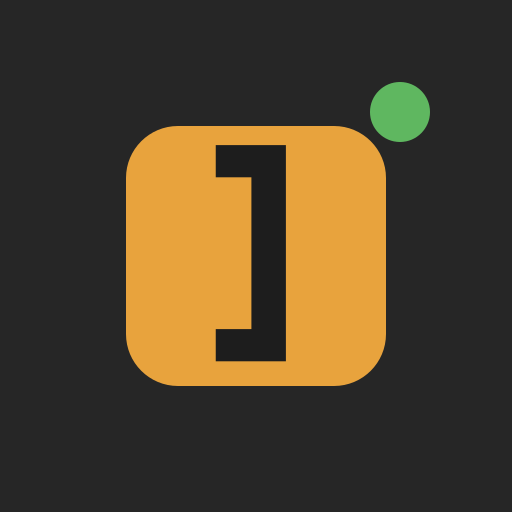
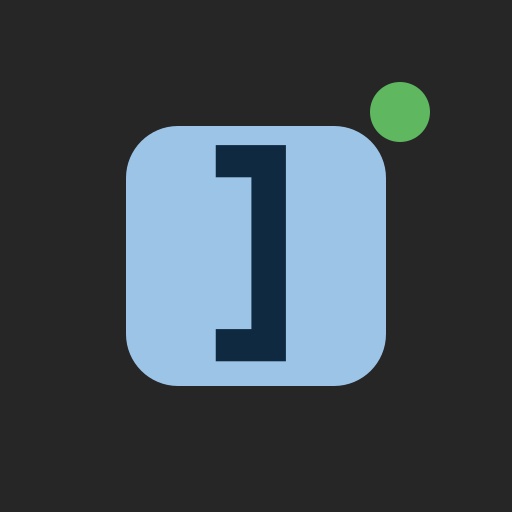
Console-cable blue instead of amber (#11)
bauddy's one accent is now the light blue of a Cisco console cable
(#9CC4E6, sampled from the cable): the ctrl+] key on the status line,
the
command bar and other bars asking for a key, notes, search highlights
and
the help and baud overlays. Text on it is dark navy (#0F2A40), and light
themes get a deeper blue (#1F5C8F) for overlay text.

The logo, avatar, social preview and README screenshots are regenerated
to match, and the code's amber names become accent names, so they say
what they are.

After merging: upload docs/avatar.png and docs/social-preview.png in the
repo settings, since GitHub keeps its own copies.

🤖 Generated with [Claude Code](https://claude.com/claude-code)

Changed region(s): [[0.2188, 0.2188, 0.7812, 0.7812]]

diff --git a/internal/tui/view.go b/internal/tui/view.go
@@ -16,37 +16,38 @@ import (
 	"github.com/ssimpson89/bauddy/internal/serialx"
 )
 
-// Palette. Amber is bauddy's one accent; red only means "something's wrong".
+// Palette. Console-cable blue (the light blue of a Cisco console cable) is
+// bauddy's one accent; red only means "something's wrong".
 var (
-	cAmber   = lipgloss.Color("#E8A33D")
-	cOnAmber = lipgloss.Color("#2A1A00")
-	cBar     = lipgloss.Color("#262626")
-	cText    = lipgloss.Color("#D0D0D0")
-	cBright  = lipgloss.Color("#ECECEC")
-	cDim     = lipgloss.Color("#9A9A9A")
-	cGreen   = lipgloss.Color("#5FB760")
-	cRedBar  = lipgloss.Color("#5A1F1B")
+	cAccent   = lipgloss.Color("#9CC4E6")
+	cOnAccent = lipgloss.Color("#0F2A40")
+	cBar      = lipgloss.Color("#262626")
+	cText     = lipgloss.Color("#D0D0D0")
+	cBright   = lipgloss.Color("#ECECEC")
+	cDim      = lipgloss.Color("#9A9A9A")
+	cGreen    = lipgloss.Color("#5FB760")
+	cRedBar   = lipgloss.Color("#5A1F1B")
+	cOnRed    = lipgloss.Color("#FFD9D4")
 	// Violet is an AI tool: the bar while it has the keyboard, and its name.
 	cViolet     = lipgloss.Color("#5B4FA8")
 	cOnViolet   = lipgloss.Color("#EEEBFF")
 	cVioletText = lipgloss.Color("#B3A8F0")
-	cOnRed      = lipgloss.Color("#FFD9D4")
 
 	// Overlays draw on the terminal's own background, so they need darker
-	// text on light themes: cAmber and cDim have poor contrast on white. The
+	// text on light themes: cAccent and cDim have poor contrast on white. The
 	// status bar sets its own background and works on any theme.
-	cAmberOnLight = lipgloss.Color("#8A5200")
+	cAccentOnLight = lipgloss.Color("#1F5C8F")
 
-	cDivider    = lipgloss.Color("#8A5200") // the command bar's divider, on amber
+	cDivider    = lipgloss.Color("#3E6E96") // the command bar's divider, on the blue bar
 	cDimOnLight = lipgloss.Color("#5C5C5C")
 )
 
 // overlayStyles returns the box, key and dim styles for the help and baud
 // overlays, suited to the terminal's background.
 func (m *Model) overlayStyles() (box, key, dim lipgloss.Style) {
-	accent, faint := color.Color(cAmber), color.Color(cDim)
+	accent, faint := color.Color(cAccent), color.Color(cDim)
 	if m.light {
-		accent, faint = cAmberOnLight, cDimOnLight
+		accent, faint = cAccentOnLight, cDimOnLight
 	}
 	box = lipgloss.NewStyle().Border(lipgloss.RoundedBorder()).BorderForeground(accent).Padding(1, 2)
 	return box, lipgloss.NewStyle().Foreground(accent).Bold(true), lipgloss.NewStyle().Foreground(faint)
@@ -135,25 +136,25 @@ func overlay(w, h int, box string) string {
 	return lipgloss.Place(w, h, lipgloss.Center, lipgloss.Center, strings.Join(lines, "\n"))
 }
 
-// hint is a key and what it does, for the amber bars: "enter send".
+// hint is a key and what it does, for the blue bars: "enter send".
 func hint(key, label string) []seg {
-	return []seg{{key, cOnAmber, true}, {" " + label + "  ", cOnAmber, false}}
+	return []seg{{key, cOnAccent, true}, {" " + label + "  ", cOnAccent, false}}
 }
 
-// amber renders a bar asking for a key: the lead text and hints on the left,
+// askBar renders a bar asking for a key: the lead text and hints on the left,
 // esc on the right. Hints are dropped from the end if the window is narrow.
-func amber(w int, lead string, hints [][]seg, esc string) string {
-	return fitLine(cAmber, w, amberLayouts(lead, hints, esc))
+func askBar(w int, lead string, hints [][]seg, esc string) string {
+	return fitLine(cAccent, w, askLayouts(lead, hints, esc))
 }
 
-// amberLayouts is an amber bar with all its hints, then with one fewer at a
+// askLayouts is a blue bar with all its hints, then with one fewer at a
 // time, for fitLine to choose from.
-func amberLayouts(lead string, hints [][]seg, esc string) []layout {
-	left := []seg{{" " + lead, cOnAmber, true}}
+func askLayouts(lead string, hints [][]seg, esc string) []layout {
+	left := []seg{{" " + lead, cOnAccent, true}}
 	if lead != "" {
 		left[0].text += "  "
 	}
-	right := []seg{{"esc", cOnAmber, true}, {" " + esc + " ", cOnAmber, false}}
+	right := []seg{{"esc", cOnAccent, true}, {" " + esc + " ", cOnAccent, false}}
 	var layouts []layout
 	for n := len(hints); n >= 0; n-- {
 		layouts = append(layouts, layout{slices.Concat(left, slices.Concat(hints[:n]...)), right})
@@ -169,13 +170,13 @@ func (m *Model) statusLine() string {
 	case modeCommand:
 		return m.commandLine(w)
 	case modeBaud:
-		return amber(w, "", [][]seg{hint("↑↓", "choose"), hint("enter", "set"), hint("d", "detect")}, "cancel")
+		return askBar(w, "", [][]seg{hint("↑↓", "choose"), hint("enter", "set"), hint("d", "detect")}, "cancel")
 	case modeHelp:
-		return line(cAmber, w, []seg{{" any key closes", cOnAmber, false}}, nil)
+		return line(cAccent, w, []seg{{" any key closes", cOnAccent, false}}, nil)
 	case modePasteConfirm:
-		return amber(w, m.confirm.text(), [][]seg{hint("enter", "send"), hint("l", "log and send")}, "cancel")
+		return askBar(w, m.confirm.text(), [][]seg{hint("enter", "send"), hint("l", "log and send")}, "cancel")
 	case modeProbeOffer:
-		return amber(w, "nothing heard.", [][]seg{hint("enter", "send Enter at each baud rate")}, "skip")
+		return askBar(w, "nothing heard.", [][]seg{hint("enter", "send Enter at each baud rate")}, "skip")
 	case modeHistory:
 		return m.historyBar(w)
 	}
@@ -226,7 +227,7 @@ func (m *Model) peers() []seg {
 // is wrong.
 func (m *Model) mainLine(w int) string {
 	bad := m.state != serialx.Connected || m.note.kind == noteError
-	bg, fg, accent := cBar, cText, cAmber
+	bg, fg, accent := cBar, cText, cAccent
 	if bad {
 		bg, fg, accent = cRedBar, cOnRed, cOnRed
 	}
@@ -302,7 +303,7 @@ type barKey struct {
 	help       bool // the ? key, which reads "more" once anything is hidden
 }
 
-// commandLine is the amber bar in command mode.
+// commandLine is the blue bar in command mode.
 func (m *Model) commandLine(w int) string {
 	var keys []barKey
 	var quit, back barKey
@@ -369,7 +370,7 @@ func commandBar(w int, keys []barKey, quit, back barKey, note string) string {
 		over := width(left) + 1 + width(right) - w // +1: at least one cell between them
 		switch {
 		case over <= 0:
-			return line(cAmber, w, left, right)
+			return line(cAccent, w, left, right)
 		case len(drop) > 0:
 			shown[drop[0]], drop = false, drop[1:]
 		case note != "" && lipgloss.Width(note) > noteMin:
@@ -383,7 +384,7 @@ func commandBar(w int, keys []barKey, quit, back barKey, note string) string {
 		case helpLabel:
 			helpLabel = false
 		default:
-			return line(cAmber, w, left, right) // cut at the edge
+			return line(cAccent, w, left, right) // cut at the edge
 		}
 	}
 }
@@ -392,7 +393,7 @@ func commandBar(w int, keys []barKey, quit, back barKey, note string) string {
 // sends to the device. Without helpLabel, the ? key is shown bare.
 func barLeft(keys []barKey, shown []bool, helpLabel bool) []seg {
 	hidden := slices.Contains(shown, false)
-	out := []seg{{" ", cOnAmber, false}}
+	out := []seg{{" ", cOnAccent, false}}
 	divided := false
 	for i, k := range keys {
 		if !shown[i] {
@@ -405,7 +406,7 @@ func barLeft(keys []barKey, shown []bool, helpLabel bool) []seg {
 		label := k.label
 		switch {
 		case k.help && !helpLabel:
-			out = append(out, seg{k.key + "  ", cOnAmber, true})
+			out = append(out, seg{k.key + "  ", cOnAccent, true})
 			continue
 		case k.help && hidden:
 			label = "more"
@@ -419,17 +420,17 @@ func barLeft(keys []barKey, shown []bool, helpLabel bool) []seg {
 func barRight(note string, quit, back barKey, quitFull, backFull bool) []seg {
 	var out []seg
 	if note != "" {
-		out = append(out, seg{note + "   ", cOnAmber, true})
+		out = append(out, seg{note + "   ", cOnAccent, true})
 	}
 	if quitFull {
 		out = append(out, hint(quit.key, quit.label)...)
 	} else {
-		out = append(out, seg{quit.key + "  ", cOnAmber, true})
+		out = append(out, seg{quit.key + "  ", cOnAccent, true})
 	}
 	if backFull {
-		out = append(out, seg{back.key, cOnAmber, true}, seg{" " + back.label + " ", cOnAmber, false})
+		out = append(out, seg{back.key, cOnAccent, true}, seg{" " + back.label + " ", cOnAccent, false})
 	} else {
-		out = append(out, seg{back.key + " ", cOnAmber, true})
+		out = append(out, seg{back.key + " ", cOnAccent, true})
 	}
 	return out
 }

diff --git a/internal/tui/history.go b/internal/tui/history.go
@@ -168,10 +168,18 @@ func (m *Model) selectMatch(i int) {
 	m.scrollTo(h.matches[h.match] - m.pageHeight()/2)
 }
 
-var (
-	matchStyle    = lipgloss.NewStyle().Foreground(cAmber).Bold(true)
-	selectedStyle = lipgloss.NewStyle().Background(cAmber).Foreground(cOnAmber).Bold(true)
-)
+// selectedStyle is the selected match: dark on blue, readable on any theme.
+var selectedStyle = lipgloss.NewStyle().Background(cAccent).Foreground(cOnAccent).Bold(true)
+
+// matchStyle is the other matches, drawn on the terminal's own background:
+// the light blue is too pale on a light theme, so that gets the dark one.
+func (m *Model) matchStyle() lipgloss.Style {
+	fg := cAccent
+	if m.light {
+		fg = cAccentOnLight
+	}
+	return lipgloss.NewStyle().Foreground(fg).Bold(true)
+}
 
 // historyView draws the screenful of history starting at top.
 func (m *Model) historyView(height int) string {
@@ -203,7 +211,7 @@ func (m *Model) historyLine(line string, selected bool) string {
 			prefix, line = "…"+ansi.Cut(before, w-keep+1, w), line[loc[0]:]
 		}
 	}
-	style := matchStyle
+	style := m.matchStyle()
 	if selected {
 		style = selectedStyle
 	}
@@ -229,9 +237,9 @@ func (m *Model) historyBar(w int) string {
 		}
 		var layouts []layout
 		for _, lead := range leads {
-			layouts = append(layouts, amberLayouts(lead, [][]seg{hint("enter", "find")}, "cancel")...)
+			layouts = append(layouts, askLayouts(lead, [][]seg{hint("enter", "find")}, "cancel")...)
 		}
-		return fitLine(cAmber, w, layouts)
+		return fitLine(cAccent, w, layouts)
 	}
 	where := "no output yet"
 	if len(h.shown) > 0 {
@@ -255,9 +263,9 @@ func (m *Model) historyBar(w int) string {
 	hints = append(hints, hint("↑↓", "scroll"))
 	var layouts []layout
 	for _, lead := range []string{"history  " + where + found + fresh, "history  " + where + found, "history  " + where, "history"} {
-		layouts = append(layouts, amberLayouts(lead, hints, "back")...)
+		layouts = append(layouts, askLayouts(lead, hints, "back")...)
 	}
-	return fitLine(cAmber, w, layouts)
+	return fitLine(cAccent, w, layouts)
 }
 
 func plural(n int, one, many string) string {

diff --git a/internal/tui/history_test.go b/internal/tui/history_test.go
@@ -7,6 +7,7 @@ import (
 	"testing"
 
 	tea "charm.land/bubbletea/v2"
+	"charm.land/lipgloss/v2"
 	"github.com/charmbracelet/x/ansi"
 
 	"github.com/ssimpson89/bauddy/internal/keymap"
@@ -237,5 +238,20 @@ func TestHistoryBarFitsAndKeepsEsc(t *testing.T) {
 	empty.openHistory(false)
 	if b := hbar(empty, 80); !strings.Contains(b, "no output yet") {
 		t.Errorf("empty history should say so: %q", b)
+	}
+}
+
+// On a light theme, matches are the dark blue: the light one is too pale.
+func TestHistoryMatchesAreReadableOnLightThemes(t *testing.T) {
+	for light, want := range map[bool]string{false: lipgloss.NewStyle().Foreground(cAccent).Bold(true).Render("down"), true: lipgloss.NewStyle().Foreground(cAccentOnLight).Bold(true).Render("down")} {
+		m := historyModel(0, 80, 24)
+		m.light = light
+		m.hist.lines = []string{"link down"}
+		m.openHistory(false)
+		m.hist.query = "down"
+		m.findMatches()
+		if got := m.historyLine("link down", false); !strings.Contains(got, want) {
+			t.Errorf("light %v: %q", light, got)
+		}
 	}
 }

diff --git a/internal/tui/model.go b/internal/tui/model.go
@@ -72,8 +72,8 @@ type note struct {
 type noteKind int
 
 const (
-	noteInfo   noteKind = iota // amber, clears itself
-	noteSticky                 // amber, stays until a key
+	noteInfo   noteKind = iota // accent colour, clears itself
+	noteSticky                 // accent colour, stays until a key
 	noteError                  // red, stays until a key
 )
 
